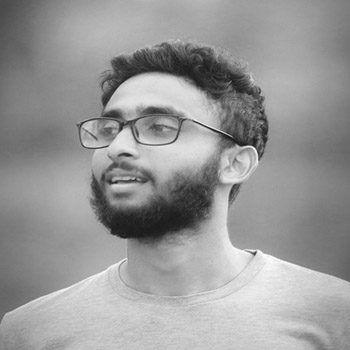
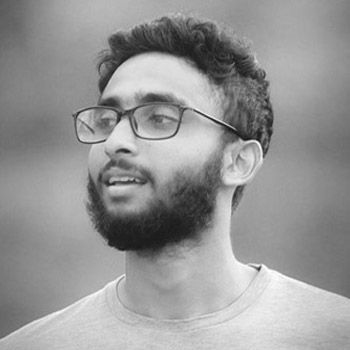
changed the image stretch issue

diff --git a/index.html b/index.html
@@ -143,7 +143,7 @@
                     </div>
                     <div class="col s12 m6 l12 flexbox flexbox-column">
                       <div class="responsive-img-bg">
-                        <img class="responsive-img" src="./assets/images/team/3-vijeesh gopal.jpg" alt="Carina">
+                        <img class="responsive-img" src="./assets/images/team/vijeesh_gopal.jpg" alt="Carina">
                       </div>
                         <div class="name flow-text">Vijesh Gopal</div>
                         <div class="title">Chief Operating Officer <br> Playback Singer, Music Composer</div>
@@ -231,7 +231,7 @@
                       </div>
                         <div class="name flow-text">Subin Mathew</div>
                         <div class="title">Head - Digital Marketing</div>
-                    </div>                                                                                                                                                           
+                    </div>
             </div>
           </div>
         </section>
